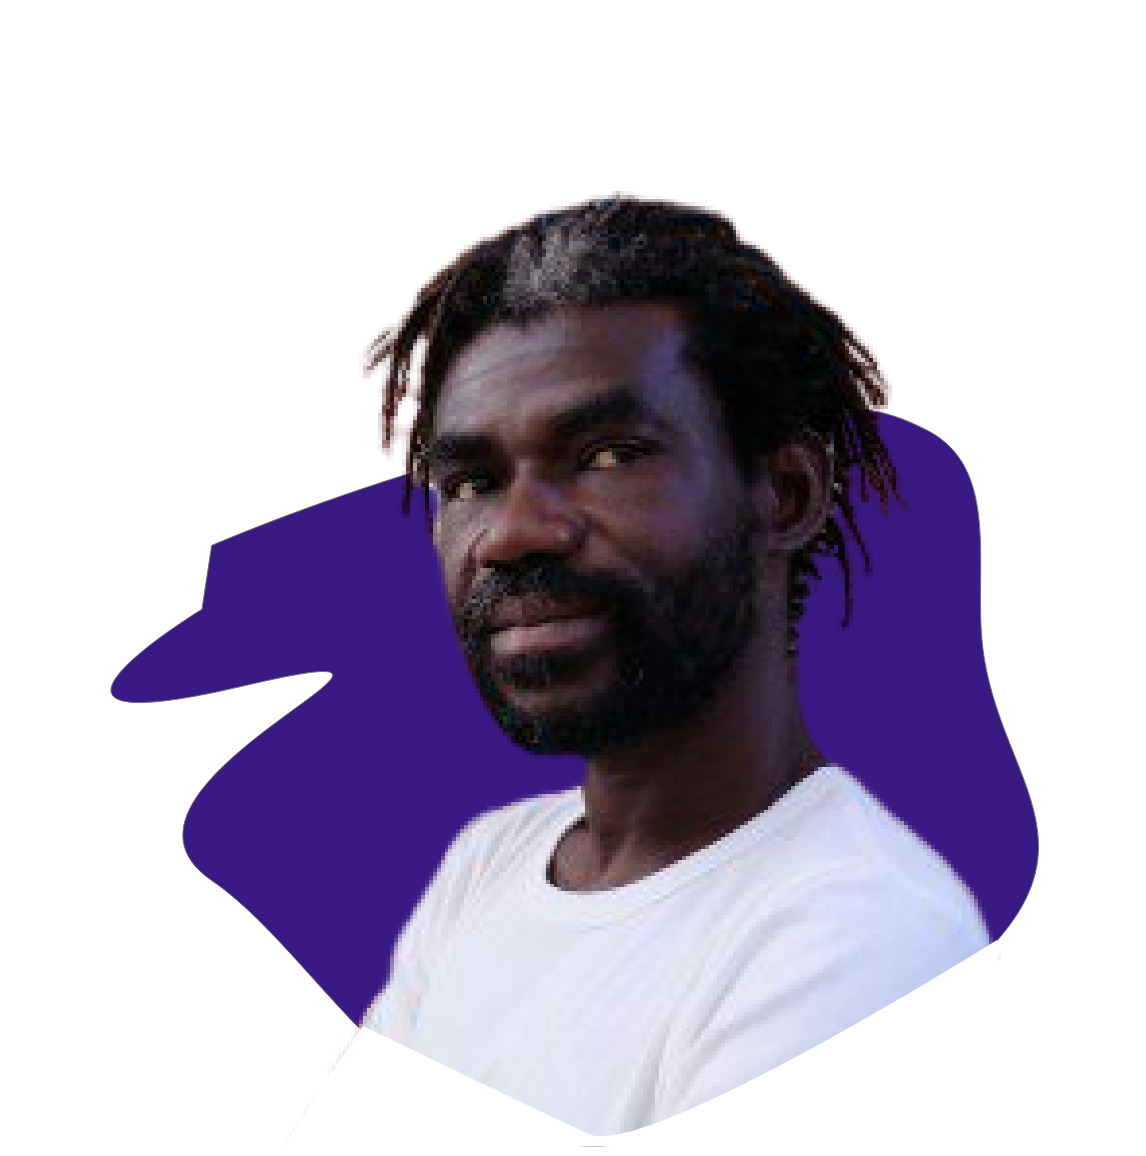
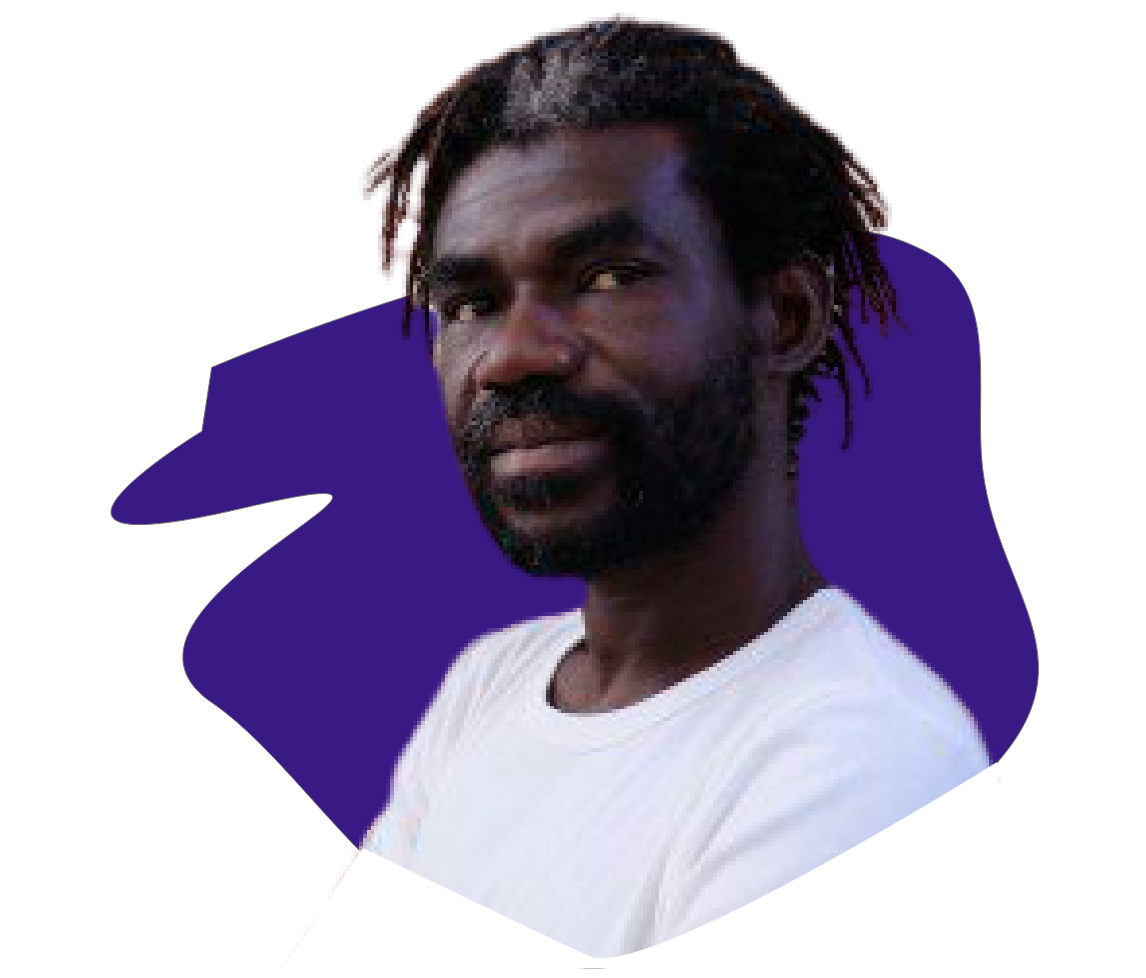
more components

diff --git a/src/components/styles/ProfileSection.css b/src/components/styles/ProfileSection.css
@@ -1,5 +1,8 @@
 .ProfileSection {
   padding: 0 3vw;
+  font-family: "Poppins", sans-serif;
+  background: url("https://websitedemos.net/diagnostics-lab-02/wp-content/uploads/sites/662/2020/08/diagnostic-lab-content-gradient-bg.svg");
+  background-repeat: no-repeat;
 }
 
 .ProfileSection .innerSection {
@@ -20,16 +23,31 @@
 .profileContent {
   display: flex;
 }
-.profileContent div {
-  flex: 0.5;
-  font-size: clamp(18px, 2vw, 32px);
+.profileContent :nth-child(1) {
+  flex: 0.6;
+}
+.profileContent :nth-child(1) button {
+  background: #a08c5d;
+  border: none;
+  color: white !important;
+  padding: 8px 30px;
+  border-radius: 15px;
+  font-size: 1.3vw;
+}
+.profileContent :nth-child(2) {
+  flex: 0.4;
 }
 .profileContent div p {
-  width: 85%;
+  font-family: "calibri" !important;
+  width: 90%;
   line-height: 1.5rem;
   padding: 20px;
+  font-size: clamp(13px, 1.5vw, 20px);
+  font-weight: 600;
+  /* font-size: 1.4vw; */
 }
 .profileContent img {
   height: 350px;
-  width: 70%;
+  min-width: 81%;
+  margin-top: -20px;
 }

diff --git a/src/App.js b/src/App.js
@@ -9,6 +9,7 @@ import Header from "./components/Header";
 import AboutPage from "./pages/AboutPage";
 import ArchivePage from "./pages/ArchivePage";
 import ProfileSection from "./components/ProfileSection";
+import Footer from "./components/Footer";
 
 function App() {
   return (
@@ -20,6 +21,7 @@ function App() {
         <HomeListings />
         <ExhibitionSection />
         <ProfileSection />
+        <Footer />
         {/* <AboutPage />
         <ArchivePage /> */}
       </div>

diff --git a/src/components/ProfileSection.js b/src/components/ProfileSection.js
@@ -20,6 +20,7 @@ function ProfileSection(props) {
             Yoruba culture. <br /> <br /> His work brings together local forms
             of artwork and a contemporary approach,{" "}
           </p>
+          <button>See Full Profile</button>
         </div>
         <div>
           <img src={profile}></img>

diff --git a/src/components/Footer.js b/src/components/Footer.js
@@ -1,0 +1,7 @@
+import React from "react";
+import "./styles/Footer.css";
+function Footer(props) {
+  return <div>Okay this is a footer</div>;
+}
+
+export default Footer;
